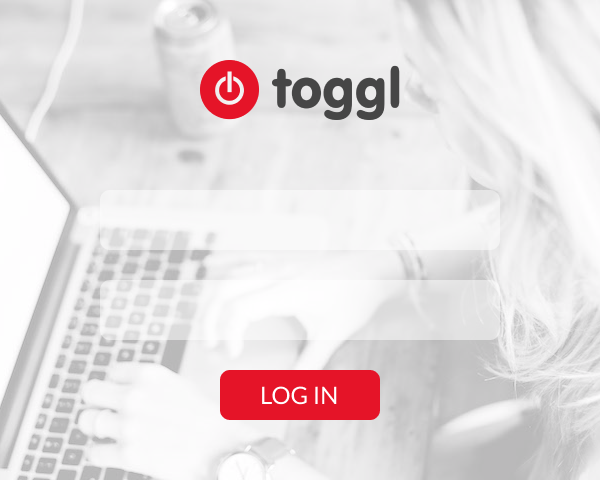
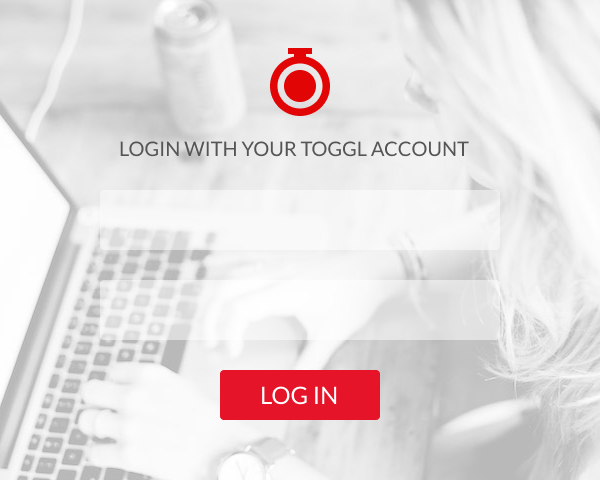
app name

Changed region(s): [[0.33, 0.0938, 0.69, 0.25], [0.21, 0.2812, 0.78, 0.3438]]

diff --git a/app/components/Login.js b/app/components/Login.js
@@ -4,13 +4,13 @@ import commonStyles from '../styles/Common.css';
 import formStyles from '../styles/Forms.css';
 
 import background from '../img/login-background.png';
-import logo from '../img/toggl-logo.png';
+import logo from '../img/trakker-logo.png';
 
 const Login = props =>
   <div className={commonStyles.section} style={{backgroundImage: `url(${background})`}}>
-    <img className={commonStyles.logo} src={logo} height="30" />
+    <img className={commonStyles.logo} src={logo} />
 
-    <p className={formStyles.error}>{props.authError ? 'Invalid credentials' : ''}</p>
+    <p className={props.authError ? formStyles.error : formStyles.label}>{props.authError ? 'Invalid credentials' : 'LOGIN WITH YOUR TOGGL ACCOUNT'}</p>
 
     <input className={formStyles.input} type="text" name="inputUser" onChange={props.onInputChange} />
     <input className={formStyles.input} type="password" name="inputPass" onChange={props.onInputChange} />

diff --git a/app/styles/Forms.css b/app/styles/Forms.css
@@ -6,10 +6,19 @@
   margin-bottom: 10px;
 }
 
+.label {
+  color: #555;
+  font-family: 'Lato', sans-serif;
+  font-size: 11px;
+  line-height: 12px;
+  margin-bottom: 10px;
+  text-transform: uppercase;
+}
+
 .input {
   background-color: rgba(255,255,255,0.7);
   border: 0;
-  border-radius: 5px;
+  border-radius: 2px;
   color: #444;
   font-family: 'Lato', sans-serif;
   font-size: 16px;
@@ -25,7 +34,7 @@
 .button {
   background-color: #E51428;
   border: 0;
-  border-radius: 5px;
+  border-radius: 2px;
   color: #FFF;
   font-family: 'Lato', sans-serif;
   height: 25px;

diff --git a/app/components/Loading.js b/app/components/Loading.js
@@ -4,11 +4,11 @@ import commonStyles from '../styles/Common.css';
 import spinnerStyles from '../styles/Spinner.css';
 
 import background from '../img/login-background.png';
-import logo from '../img/toggl-logo.png';
+import logo from '../img/trakker-logo.png';
 
 const Loading = props =>
   <div className={commonStyles.section} style={{backgroundImage: `url(${background})`}}>
-    <img className={commonStyles.logo} src={logo} height="30" />
+    <img className={commonStyles.logo} src={logo} />
     <div className={spinnerStyles.spinner} />
   </div>;
 

diff --git a/index.js b/index.js
@@ -22,10 +22,10 @@ app.on('ready', () => {
   app.dock.hide();
 
   tray = new Tray(appIconDefault);
-  tray.setToolTip('TogglApp');
+  tray.setToolTip('Trakker');
 
   win = new BrowserWindow({
-    title: 'TogglApp',
+    title: 'Trakker',
     width: 300,
     height: 240,
     frame: false,

diff --git a/app/styles/Common.css b/app/styles/Common.css
@@ -7,4 +7,5 @@
 
 .logo {
   margin-bottom: 10px;
+  height: 34px;
 }

diff --git a/README.md b/README.md
@@ -1,6 +1,6 @@
-# Toggl menubar app
+# Trakker app
 
-Simple time tracking menubar app that works with Toggl.
+Trakker is a simple time tracking menubar app that works with Toggl.
 Made with Electron, React, Webpack, Babel, Figma and [toggl api](https://github.com/toggl/toggl_api_docs).
 
 ## Development
